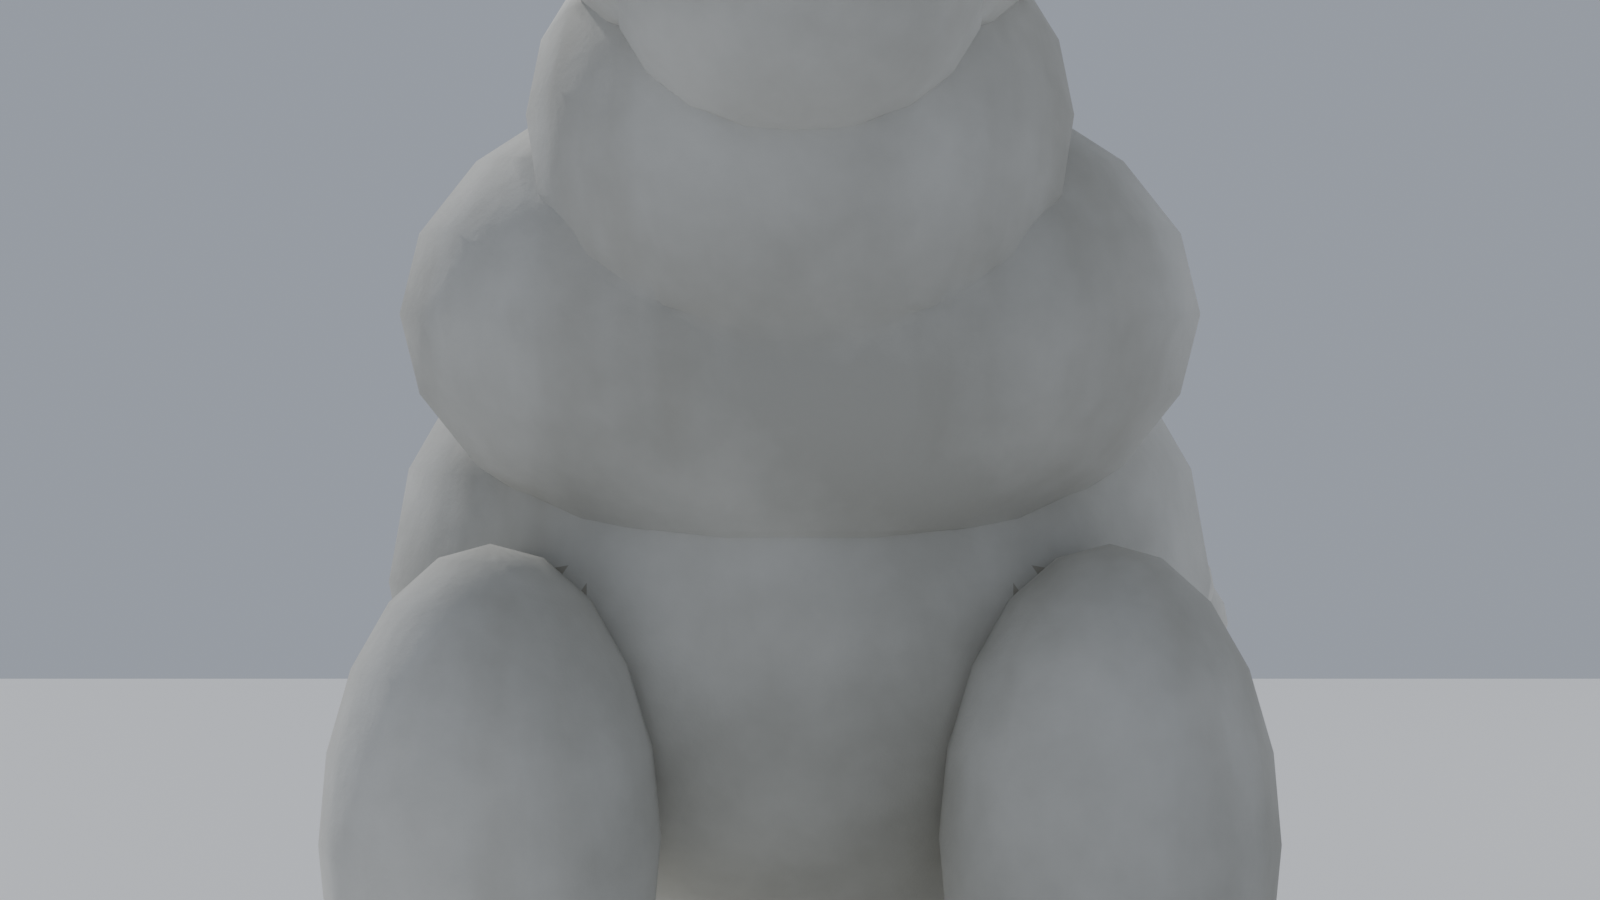
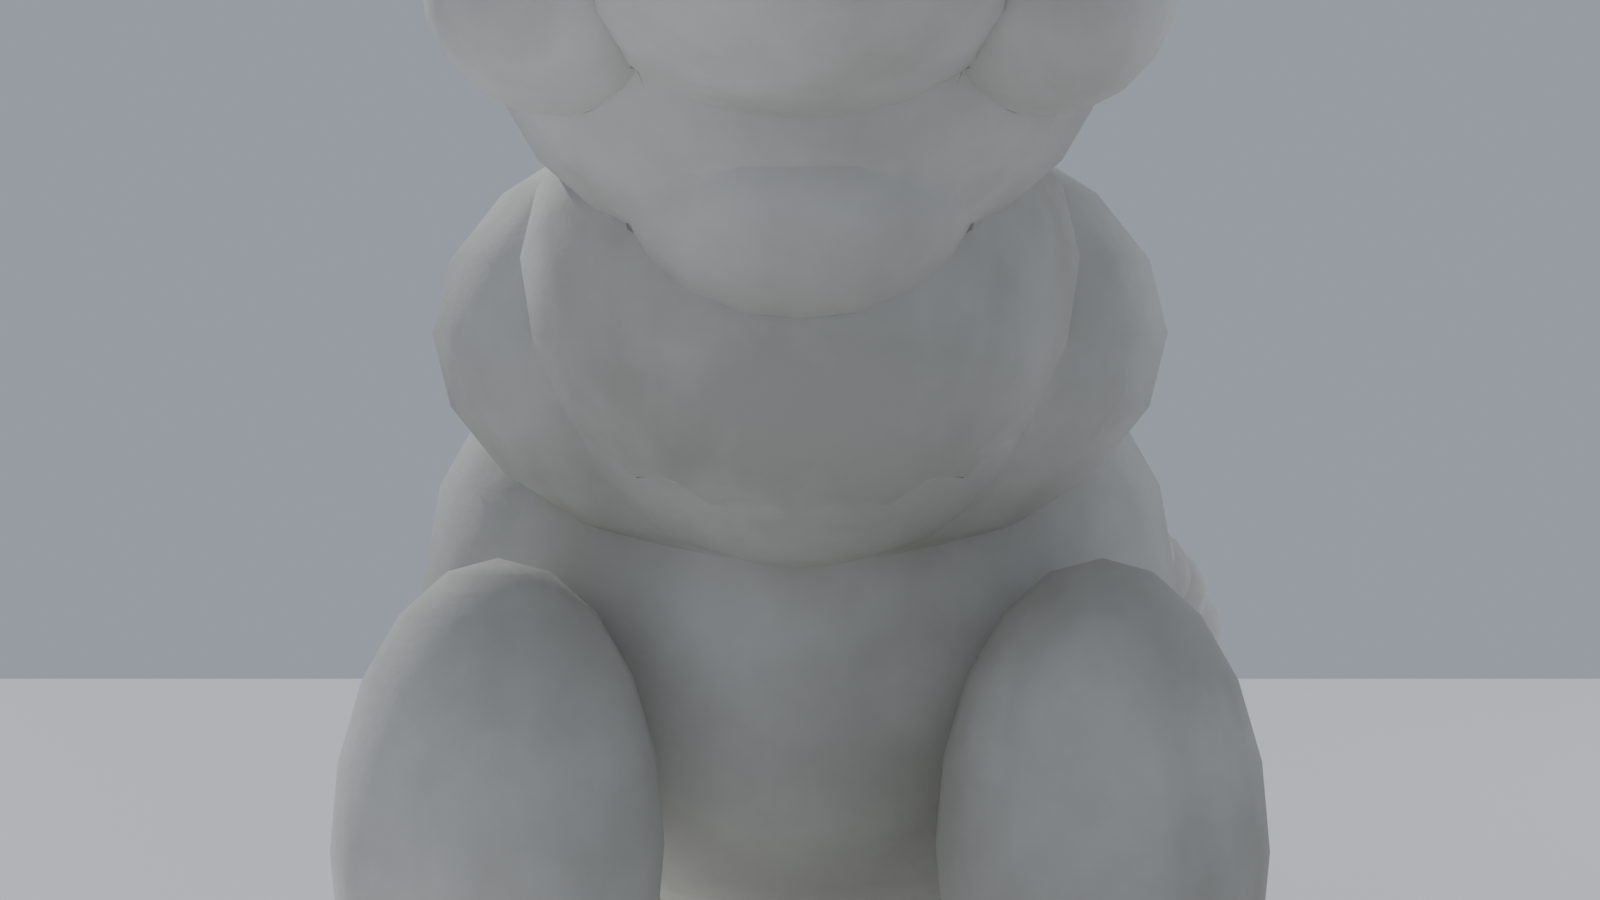
feat(e30): M15-P2 兽雕刻化(BeastSculpt8)——晶体齿换八棱四段母线火焰瓣(厚根0.80w/内凹腰/薄尖/自掠尖锋), 双峰乱序+间距不均+谷间矮瓣遮叠, 峰移肩后破'冠脊等高', 头降0.075前伸+胸近竖直; 两variant水密comps=1, 真树重渲目视与实拍剪影吻合

diff --git a/e30_shikongqiao_video/3d/beasts2.py b/e30_shikongqiao_video/3d/beasts2.py
@@ -1,12 +1,13 @@
 # -*- coding: utf-8 -*-
-"""桥头靠山兽 v7(beasts2): 前探蹲坐+火焰瓣脊镇桥兽, 真拍重雕批(2026-10-05)。
+"""桥头靠山兽 v8(beasts2): 前探蹲坐+雕刻化火焰瓣脊镇桥兽, 真拍重雕批(2026-10-05)。
 
 历史依据(实拍 17_Arch_Bridge_Statue_over_Kunming_Lake_(3627588283) 剪影实证,
-六审第五刀): 头前伸/吻近水平(额-鼻-嘴水平轮廓强), 颈斜向后上, 胸削瘦,
-前腿直撑, 躯干向后拉长(前探动势); 背脊=7 片火焰瓣——有尖/每层向后倒伏/
-前后层叠/瓣间凹口/大小递变/棱面硬轮廓(废 v6 圆椭球泡"葡萄脊");
-云缘两侧披鬃顺披; 尾卷贴体侧后腿旁; 长方石座保留。
-废 v4 高颈直立坐犬态 / v5 伏卧前探+单片巨卷 / v6 蹲坐昂首+圆泡云脊。
+六审第五刀 + 七审 P2): 头低位前伸/吻近水平/颈斜向后上/胸近竖直削瘦/前腿直撑/
+躯干后拉长(前探动势); 背脊=雕刻化火焰瓣——厚根薄尖/前后遮叠/整体后掠/
+大小不一/间距不均/峰在肩后至臀上且高过头顶(七审 P2 废"规则晶体齿"读感:
+v7 等距等掠六棱直瓣); 云缘两侧披鬃顺披; 尾卷贴体侧后腿旁; 长方石座保留。
+废 v4 高颈直立坐犬态 / v5 伏卧前探+单片巨卷 / v6 蹲坐昂首+圆泡云脊 /
+v7 规则晶体齿脊。
 
 交付形态: beast_bm(size, variant, seed) -> 单只水密 bmesh; place_beasts(spots) ->
 4 个 linked duplicate 共享 NVARIANTS 套 mesh。variant 0 张口 / 1 含珠微合。
@@ -108,52 +109,66 @@ def _frustum(c, s, tx=1.0, tz=1.0, rot_y=0.0, rot_x=0.0):
 
 
 def _blade(c, h, w, t, rot_y=-0.10):
-    """火焰瓣(独立 bmesh): 底环 + 内收腰环 + 后掠尖锋 + 前埋钝底。
+    """火焰瓣(独立 bmesh): 八棱根环 + 厚根段 + 内收腰 + 薄尖段 + 后掠尖锋 + 前埋钝底。
 
-    腰环(0.70h)收至 0.55w → 瓣宽厚保持到中上段、末 30% 收尖(宽瓣尖锋,
-    前后棱斜率递增=内凹火焰卷曲); 尖锋后掠 0.16h(合成顶点 ≈ 环心 +
-    (-0.259h, +0.979h)); 钝底下沉 0.18h 前埋 0.06h, 令环刃整条埋入
-    背脊体块(防切线退化/防瓣底悬丝)。
+    七审 P2 雕刻化(废"规则晶体齿"读感): 四段母线 0/0.40h/0.68h/0.85h,
+    根段保持 0.80w 到 0.40h(厚根) → 0.68h 收至 0.34w(内凹腰) → 0.85h 只剩
+    0.21w(薄尖) → 尖锋(合成顶点=环心+rot 后掠), 根粗尖细一气呵成; 前缘
+    xoffset 0/−0.06/−0.18/−0.25/−0.28h 递增后收(中段收速最快=凹弧焰舌卷,
+    非直边晶体); 八棱环前后棱增宽 1.18·|cos a|³(石棱正面折带, 侧面圆浑);
+    尖锋配 rot_y 后掠角(布片 -0.20→-0.52 递增=整体后掠);
+    钝底下沉 0.16h 前埋 0.06h, 令根环整条埋入背脊体块(防切线退化/防瓣底悬丝)。
     """
     cx, cy, cz = c
     R = Matrix.Rotation(rot_y, 3, 'Y')
     bm = bmesh.new()
-    ring, waist = [], []
-    for j in range(6):
-        a = math.pi * j / 3.0
-        ca, sa = math.cos(a), math.sin(a)
-        p = R @ Vector((w * ca, t * sa, 0.0))
-        ring.append(bm.verts.new((p.x + cx, p.y + cy, p.z + cz)))
-        q = R @ Vector((0.55 * w * ca - 0.112 * h, 0.62 * t * sa, 0.70 * h))
-        waist.append(bm.verts.new((q.x + cx, q.y + cy, q.z + cz)))
-    tp = R @ Vector((-0.16 * h, 0.0, h))
-    bt = R @ Vector((0.06 * h, 0.0, -0.18 * h))
+    NS = 8
+    prof = ((0.0, 0.0, 1.0, 1.0), (0.40, -0.06, 0.80, 0.88),
+            (0.68, -0.18, 0.34, 0.52), (0.85, -0.25, 0.21, 0.34))
+    rows = []
+    for (zh, xo, ws, ts) in prof:
+        row = []
+        for j in range(NS):
+            a = 2.0 * math.pi * j / NS
+            k = 1.0 + 0.18 * abs(math.cos(a)) ** 3
+            p = R @ Vector((w * ws * k * math.cos(a) + xo * h,
+                            t * ts * math.sin(a), zh * h))
+            row.append(bm.verts.new((p.x + cx, p.y + cy, p.z + cz)))
+        rows.append(row)
+    tp = R @ Vector((-0.28 * h, 0.0, h))
+    bt = R @ Vector((0.06 * h, 0.0, -0.16 * h))
     va = bm.verts.new((tp.x + cx, tp.y + cy, tp.z + cz))
     vb = bm.verts.new((bt.x + cx, bt.y + cy, bt.z + cz))
-    for j in range(6):
-        k = (j + 1) % 6
-        bm.faces.new((vb, ring[k], ring[j]))
-        bm.faces.new((ring[j], ring[k], waist[k], waist[j]))
-        bm.faces.new((waist[j], waist[k], va))
+    for i in range(len(rows) - 1):
+        for j in range(NS):
+            k = (j + 1) % NS
+            bm.faces.new((rows[i][j], rows[i][k], rows[i + 1][k], rows[i + 1][j]))
+    for j in range(NS):
+        k = (j + 1) % NS
+        bm.faces.new((rows[0][k], rows[0][j], vb))
+        bm.faces.new((rows[-1][j], rows[-1][k], va))
     return bm
 
 
 def _sculpt_parts(variant):
     """前探蹲坐式靠山兽部件(单位高 1.0, 朝 +X)。返回 (P, N, F)。
 
-    六审第五刀(2026-10-05, GPT 六审: 背脊整条重画+身体前探动势, 实拍
-    17_Arch_Bridge_Statue_over_Kunming_Lake_(3627588283) 剪影实证):
-    1. 背脊=7 片火焰瓣 _blade(六棱环+后掠尖锋+钝底埋背): 有尖/每层向后
-       倒伏/前后层叠/瓣间深凹口/大小递变(中背最高≈头顶)/棱面硬轮廓;
-       尖序 x 0.235→-0.58, 尖高 0.79→0.82(峰)→0.56。废 v6 圆椭球泡脊。
-    2. 身体前探: 头前送+0.065(吻端至 0.70), 吻轴近水平(rot_y -0.21≈+12°,
-       额-鼻-嘴水平轮廓强), 颈斜向后上(rot_y -0.35), 胸削瘦(rx 0.19→0.16)
-       且前移, 躯干后拉(臀球 -0.30→-0.335, 胯-肩跨距 +16%), 前腿更直立
-       (~4°), 整体降低(冠顶 0.953→0.857)。
+    七审 P2(2026-10-06, GPT 七审: 背脊从"规则晶体齿"改"雕刻化" + 头颈降低
+    前伸 + 胸口再削 + 火焰瓣更贴体; 实拍 3627588283 对照):
+    1. 背脊雕刻化五特征: 厚根薄尖(_blade 四段母线 0.80w@0.40h→0.26w@0.85h)、
+       整体后掠(每瓣 rot_y -0.20→-0.60 递增 + 尖锋自掠 0.20h)、前后遮叠
+       (主 7 瓣根宽互叠 + 谷间 3 矮瓣中景层)、大小不一(0.19-0.63 双峰乱序)、
+       间距不均(0.08-0.16 乱序); 峰移肩后至臀上(真物位), 峰高 0.919>冠顶
+       0.782; 八棱根环前后棱 1.18 增宽(石棱折带非晶体棱)。
+    2. 头颈降低前伸: 头组 -z0.075/+x0.01(冠顶 0.782, 吻端 0.74), 颈 rot_y
+       -0.35→-0.50(斜向后上加强, 头不再昂), 吻轴保持 -0.21 近水平。
+    3. 胸口再削: 挺胸 rx 0.16→0.135 前移 0.165(前缘 x0.03 近竖直), 肩丘
+       0.115→0.108; 前腿不动(直撑)。
     体块=椭球/盒(rot_y 定向: 负角 +X 端上仰/顶部向后倒伏, 正角相反);
     火焰瓣/披鬃/云/尾=C 壳先并再总并(瓣环刃/鬃锚/尾根均深埋体块保连通);
-    五官=负刀 crease+后并凸件。剪影验收: 背脊锯齿锐形(尖+凹口, 无球轮廓)/
-    头前伸吻水平/胸瘦腿直/瓣尖≤头顶 1.2×/尾贴腿侧。
+    五官=负刀 crease+后并凸件。剪影验收: 背脊雕刻层叠(厚根薄尖+后掠+双峰+
+    谷间矮瓣, 非等距齿列)/头低位前伸吻水平/胸瘦腿直/焰峰高过头顶/尾贴腿侧。
+    (六审第五刀: 首次火焰瓣化+前探动势, 见 §六报告; v6 圆泡脊已废。)
     """
     P, N, F = [], [], []
     C = []
@@ -186,12 +201,13 @@ def _sculpt_parts(variant):
     # 1. 长方石座(保留 v5)
     box((-0.09, 0, 0.042), (1.55, 0.58, 0.095))
 
-    # 2. 前探躯干: 臀球后拉落座 + 腰腹拉长 + 胸削瘦前移 + 肩丘(头前伸支点)
+    # 2. 前探躯干: 臀球后拉落座 + 腰腹拉长 + 胸再削瘦前移 + 肩丘(头前伸支点)
     ell((-0.335, 0, 0.255), (0.20, 0.205, 0.185))   # 臀球(沉入座面, 顶 0.44)
     ell((-0.07, 0, 0.32), (0.22, 0.20, 0.13))       # 腰腹(腹线 0.19 上收)
-    ell((0.175, 0, 0.375), (0.16, 0.195, 0.17))     # 挺胸(削瘦: 底0.205顶0.545)
-    ell((0.27, 0, 0.50), (0.115, 0.18, 0.115))      # 肩丘(颈基)
-    ell((0.30, 0, 0.55), (0.10, 0.115, 0.10), rot_y=-0.35)  # 咽喉填充(颏-胸桥)
+    ell((0.165, 0, 0.375), (0.135, 0.185, 0.165))   # 挺胸(七审再削: 底0.21顶0.54,
+                                                    #  前缘 x0.03 近竖直)
+    ell((0.265, 0, 0.50), (0.108, 0.17, 0.108))     # 肩丘(颈基)
+    ell((0.31, 0, 0.495), (0.10, 0.115, 0.10), rot_y=-0.45)  # 咽喉填充(颏-胸桥)
     # 2b. 后肢折叠: 大腿 + 飞节 + 前伸后爪 + 三趾(贴体侧, 随臀后拉 -0.03)
     for sy in (1, -1):
         ell((-0.31, sy * 0.15, 0.19), (0.13, 0.085, 0.115))
@@ -210,42 +226,56 @@ def _sculpt_parts(variant):
             ell((0.435, sy * 0.145 + ty, 0.098), (0.034, 0.018, 0.025),
                 _SEG_S, _RING_S)
 
-    # 4. 头前伸: 颈斜向后上(-0.35), 吻轴近水平(-0.21≈+12°), 吻加长前送;
-    #    额-鼻-嘴一线 z 0.775→0.815 水平轮廓强; 颏须垂桥接胸
-    ell((0.315, 0, 0.58), (0.10, 0.12, 0.115), rot_y=-0.35)        # 颈
-    ell((0.365, hy, 0.72), (0.13, 0.14, 0.12))                     # 颅
-    ell((0.352, hy, 0.812), (0.108, 0.14, 0.045), rot_y=-0.15,
+    # 4. 头前伸且降(七审 P2: 整组 -z0.075/+x0.01, 冠顶 0.782→归一≈0.85 总高,
+    #    真拍头低于背脊焰峰; 颈斜向后上加强 -0.50, 吻轴保持近水平 -0.21);
+    #    颏须垂桥接胸
+    ell((0.325, 0, 0.525), (0.105, 0.125, 0.115), rot_y=-0.50)     # 颈
+    ell((0.375, hy, 0.645), (0.13, 0.14, 0.12))                    # 颅
+    ell((0.362, hy, 0.737), (0.108, 0.14, 0.045), rot_y=-0.15,
         carve=True)                                                # 冠盖
-    ell((0.44, hy, 0.775), (0.095, 0.12, 0.038), rot_y=-0.19)      # 额檐(眉上收)
-    ell((0.52, hy, 0.79), (0.105, 0.10, 0.06), rot_y=-0.21)        # 鼻梁
-    ell((0.615, hy, 0.80), (0.06, 0.085, 0.048), rot_y=-0.21)      # 吻端
-    ell((0.668, hy, 0.815), (0.032, 0.058, 0.028), rot_y=-0.21)    # 鼻镜
+    ell((0.45, hy, 0.70), (0.095, 0.12, 0.038), rot_y=-0.19)       # 额檐(眉上收)
+    ell((0.53, hy, 0.715), (0.105, 0.10, 0.06), rot_y=-0.21)       # 鼻梁
+    ell((0.625, hy, 0.725), (0.06, 0.085, 0.048), rot_y=-0.21)     # 吻端
+    ell((0.678, hy, 0.74), (0.032, 0.058, 0.028), rot_y=-0.21)     # 鼻镜
     for sy in (1, -1):
-        ell((0.66, hy + sy * 0.05, 0.805), (0.026, 0.026, 0.022),
+        ell((0.67, hy + sy * 0.05, 0.73), (0.026, 0.026, 0.022),
             _SEG_S, _RING_S)                                       # 鼻翼
-        ell((0.445, hy + sy * 0.10, 0.72), (0.07, 0.055, 0.055))   # 颊垫
-    ell((0.49, hy, 0.715), (0.10, 0.085, 0.05), rot_y=-0.21)       # 下颌(加深, 存活于口裂下缘)
-    ell((0.39, hy, 0.645), (0.075, 0.08, 0.075), rot_y=-0.45,
+        ell((0.455, hy + sy * 0.10, 0.645), (0.07, 0.055, 0.055))  # 颊垫
+    ell((0.50, hy, 0.64), (0.10, 0.085, 0.05), rot_y=-0.21)        # 下颌(加深, 存活于口裂下缘)
+    ell((0.40, hy, 0.575), (0.075, 0.08, 0.075), rot_y=-0.45,
         carve=True)                                                # 颏须
     for sy in (1, -1):
-        ell((0.285, hy + sy * 0.10, 0.79), (0.035, 0.026, 0.042),
+        ell((0.295, hy + sy * 0.10, 0.715), (0.035, 0.026, 0.042),
             _SEG_S, _RING_S, rot_x=sy * -0.4, rot_y=-0.35)         # 贴颅伏耳
-        ell((0.445, hy + sy * 0.09, 0.79), (0.05, 0.04, 0.022),
+        ell((0.455, hy + sy * 0.09, 0.715), (0.05, 0.04, 0.022),
             _SEG_S, _RING_S, rot_x=sy * 0.2, rot_y=-0.21)          # 眉脊
 
-    # 5. 背脊火焰瓣 x7(六审第五刀: 有尖/向后倒伏/前后层叠/瓣间凹口/大小
-    #    递变/棱面硬轮廓; rot_y -0.30+尖锋后掠 0.22h → 尖=环心+(-0.506h,
-    #    +0.890h), 环刃深埋背线 0.03-0.09, 相邻瓣下半大重叠成瓦叠实心脊,
-    #    凹口只落瓣高中部不落底)。废 v6 圆椭球泡脊。
-    for (bx, bz, bh, bw, bt) in (
-            (0.27, 0.60, 0.20, 0.060, 0.075),    # 项后鬃锋(从头颈后穿出, 尖0.80)
-            (0.185, 0.46, 0.326, 0.115, 0.09),   # 尖0.78
-            (0.05, 0.39, 0.449, 0.17, 0.11),     # 尖0.83
-            (-0.085, 0.40, 0.466, 0.175, 0.115), # 中背峰 尖0.856≈头顶
-            (-0.24, 0.39, 0.416, 0.15, 0.105),   # 尖0.80
-            (-0.38, 0.385, 0.314, 0.105, 0.085), # 尖0.69(下沉保环刃埋臀)
-            (-0.50, 0.33, 0.247, 0.09, 0.075)):  # 尖0.57(臀上收)
-        blade((bx, 0, bz), bh, bw, bt)
+    # 5. 背脊火焰瓣(七审 P2 雕刻化: 废"规则晶体齿"):
+    #    ①厚根薄尖——_blade 四段母线(根 0.80w 保持到 0.40h, 0.85h 只剩 0.21w),
+    #      主峰根宽 0.19(v6 0.175); ②整体后掠——每瓣独立后掠角 -0.20→-0.52
+    #      向后递增, 尖锋自身后掠 0.28h; ③峰移真物位(肩后至臀上), 峰高 0.874
+    #      明确高过冠顶 0.782(归一后冠≈0.89 总高, 对齐实拍焰峰>头);
+    #    ④大小不一/间距不均——间距 0.08-0.16 乱序, 高度双峰(0.874/0.792)非
+    #      单包络; ⑤前后遮叠——主 7 瓣根宽加大互叠成瓦叠实心脊, 另布 3 片
+    #      矮瓣嵌谷(前后层中景, 侧视读雕刻层叠非等距齿列); 根环全部深埋
+    #      背线 ≥0.03(钝底下沉 0.16h 加固)。
+    #    (r2: 主峰去帆化 h0.63→0.60/w0.22→0.19 且后移 -0.185, 次峰抬 0.55,
+    #     2 号瓣降 0.26 令前段三瓣各自成叶, 6/7 后掠收 -0.50/-0.52 防倒伏。)
+    for (bx, bz, bh, bw, bt_, brot) in (
+            (0.24, 0.575, 0.19, 0.055, 0.068, -0.20),   # 项后鬃锋(尖0.751)
+            (0.14, 0.45, 0.26, 0.10, 0.082, -0.30),     # 尖0.677(降, 前谷加深)
+            (0.0, 0.39, 0.44, 0.16, 0.10, -0.36),       # 尖0.758(低于冠0.782)
+            (-0.185, 0.395, 0.60, 0.19, 0.115, -0.42),  # 主峰(肩后) 尖0.874
+            (-0.315, 0.375, 0.55, 0.15, 0.10, -0.48),   # 次峰(臀上) 尖0.792
+            (-0.43, 0.345, 0.30, 0.10, 0.078, -0.50),   # 尖0.568
+            (-0.52, 0.31, 0.22, 0.075, 0.065, -0.52)):  # 尖0.470(臀后收)
+        blade((bx, 0, bz), bh, bw, bt_, rot_y=brot)
+    # 5a. 谷间矮瓣 x3(前后遮叠中景层; 根环埋背线/臀球/垂云 ≥0.05)
+    for (bx, bz, bh, bw, bt_, brot) in (
+            (0.085, 0.36, 0.19, 0.075, 0.058, -0.28),   # 2/3 谷(尖0.528)
+            (-0.245, 0.35, 0.19, 0.08, 0.06, -0.45),    # 4/5 谷
+            (-0.475, 0.315, 0.15, 0.065, 0.052, -0.58)):  # 6/7 谷
+        blade((bx, 0, bz), bh, bw, bt_, rot_y=brot)
     ell((-0.545, 0, 0.32), (0.09, 0.13, 0.085), rot_y=0.8, carve=True)  # 臀后垂云
     ell((-0.575, 0, 0.185), (0.085, 0.12, 0.10))                    # 垂云落地
     # 5b. 瓣缘两侧披鬃三对(向后顺披, 锚端嵌入瓣体+体侧双锚) + 头后卷勾
@@ -256,7 +286,7 @@ def _sculpt_parts(variant):
             _SEG_S, _RING_S, rot_x=sy * 0.3, rot_y=-0.9, carve=True)
         ell((-0.34, sy * 0.095, 0.41), (0.06, 0.048, 0.09),
             _SEG_S, _RING_S, rot_x=sy * 0.3, rot_y=-0.9, carve=True)
-        ell((0.297, hy + sy * 0.10, 0.79), (0.04, 0.026, 0.05),
+        ell((0.307, hy + sy * 0.10, 0.715), (0.04, 0.026, 0.05),
             _SEG_S, _RING_S, rot_y=-1.1, carve=True)               # 头后云卷勾
 
     # 6. 尾: 贴体侧后腿旁 S 卷, 梢上勾(variant 换侧); 首节锚入臀球,
@@ -280,31 +310,31 @@ def _sculpt_parts(variant):
 
     # 8. 减法(负刀半凸穿出表面): 口裂楔刀(沿吻轴 -0.21) / 眼窝上割 / 鼻孔
     if variant == 0:
-        neg(_frustum((0.585, hy, 0.758), (0.24, 0.052, 0.034),
+        neg(_frustum((0.597, hy, 0.683), (0.24, 0.052, 0.034),
                      tx=1.25, rot_y=-0.21))
     else:
-        neg(_frustum((0.585, hy, 0.760), (0.24, 0.052, 0.024),
+        neg(_frustum((0.597, hy, 0.685), (0.24, 0.052, 0.024),
                      tx=1.25, rot_y=-0.21))
     for sy in (1, -1):
-        neg(_ell((0.475, hy + sy * 0.088, 0.795), (0.038, 0.016, 0.018),
+        neg(_ell((0.487, hy + sy * 0.088, 0.72), (0.038, 0.016, 0.018),
                  _SEG_S, _RING_S))
-        neg(_ell((0.682, hy + sy * 0.024, 0.836), (0.012, 0.012, 0.010),
+        neg(_ell((0.692, hy + sy * 0.024, 0.761), (0.012, 0.012, 0.010),
                  _SEG_S, _RING_S))
 
     # 8b. 后置凸件(负刀后并回): 凸眼珠 / 上唇獠牙(张口) 或 含珠(微合)
     for sy in (1, -1):
-        # 眼珠中心须在眼窝负刀(0.475,±0.088,0.795)下外方, 埋入额檐实体,
+        # 眼珠中心须在眼窝负刀(0.487,±0.088,0.72)下外方, 埋入额檐实体,
         # 仅顶面探入窝内(否则整体悬在窝腔中成孤岛, 六审布尔诊断)
-        fin(_ell((0.47, hy + sy * 0.096, 0.776), (0.026, 0.028, 0.026),
+        fin(_ell((0.48, hy + sy * 0.096, 0.701), (0.026, 0.028, 0.026),
                  _SEG_S, _RING_S))
     if variant == 0:
         for sy in (1, -1):
-            # 獠牙顶端须越过口裂楔刀上缘(x=0.585 处≈0.801)嵌入上颌实体
-            fin(_ell((0.585, hy + sy * 0.040, 0.774), (0.015, 0.018, 0.048),
+            # 獠牙顶端须越过口裂楔刀上缘(x=0.597 处≈0.726)嵌入上颌实体
+            fin(_ell((0.597, hy + sy * 0.040, 0.699), (0.015, 0.018, 0.048),
                      _SEG_S, _RING_S, rot_y=-0.21))
     else:
         # 含珠顶端同样越过楔刀上缘嵌入上颌(否则负刀后悬空断连)
-        fin(_ell((0.59, hy, 0.776), (0.036, 0.036, 0.036), _SEG_S, _RING_S))
+        fin(_ell((0.602, hy, 0.701), (0.036, 0.036, 0.036), _SEG_S, _RING_S))
 
     # 9. 雕饰簇(鬃/云/尾)先并成单一壳, 再与体块一次并(避免切线布尔退化壳)
     if C:

diff --git a/e30_shikongqiao_video/3d/beast_pose_report.md b/e30_shikongqiao_video/3d/beast_pose_report.md
@@ -170,3 +170,66 @@ lion_closeup_threeq.png 重渲 + _lion_chest_zoom.png 放大目视: 无浮件、
 2. 眼窝负刀+眼珠嵌入为新位, 特写机位(frontclose 2.6m)眼形待主控验收。
 3. 脊峰若需后移至真物位(肩后), 需主控解除 v6 "背中部最高"约束后再调。
 4. build_scene2 正式树 SAVED 由主控合并各副本后统一重建确认(本副本已过)。
+
+## 七、七审 P2 刀（2026-10-06 主控派单: 背脊"规则晶体齿"→"雕刻化" + 头颈降低前伸 + 胸口再削 + 火焰瓣更贴体）
+
+依据: GPT 七审 P2 + 实拍
+refs/community_photos_details/17_Arch_Bridge_Statue_over_Kunming_Lake_(3627588283).jpg
+对照 v7 `_beast_preview_threeq.png`（头仍偏昂/胸前凸/脊=等距晶体齿）。
+工作区: /tmp/e30_fix_beast8（隔离协议; 写回互斥文件集 beasts2.py + 本报告 +
+_beast_preview_*.png; 未 commit）。
+
+### 结构改动（_blade 基元重写 + _sculpt_parts 参数, 管线/断言/接口不动）
+1. **背脊雕刻化五特征**（废 v7"规则晶体齿"读感）:
+   - **厚根薄尖**: `_blade` 从"六棱环+单腰环"重写为八棱四段母线（0/0.40h/
+     0.68h/0.85h）: 根段保持 0.80w 到 0.40h（厚根）→ 0.68h 收至 0.34w（内凹
+     腰）→ 0.85h 只剩 0.21w（薄尖）→ 尖锋; 八棱环前后棱 1.18·|cos a|³ 增宽
+     （正面石棱折带、侧面圆浑，非晶体均匀棱）。
+   - **整体后掠**: 每瓣独立后掠角 -0.20→-0.52 向后递增 + 尖锋自掠 0.28h;
+     前缘 xoffset 0/-0.06/-0.18/-0.25/-0.28h 递增（中段收速最快=凹弧焰舌卷）。
+   - **前后遮叠**: 主 7 瓣根宽加大互叠成瓦叠实心脊; 另布谷间矮瓣 x3
+     （x 0.085/-0.245/-0.475, h 0.15-0.19）嵌主瓣间作前后层中景。
+   - **大小不一/间距不均**: 主瓣高 0.19/0.26/0.44/0.60/0.55/0.30/0.22 双峰
+     乱序（峰-次峰-谷），间距 0.10-0.185 乱序。
+   - **峰移真物位**: 主峰自中背后移至肩后（x -0.185, 尖 0.874），次峰臀上
+     （x -0.315, 尖 0.792）——归一后焰峰=1.0 总高、冠顶 0.889、鼻端 0.890
+     （实拍焰峰明显高于头顶, v7 冠=脊峰等高已破）。
+2. **头颈降低前伸**: 头组整组 -z0.075/+x0.01（冠盖 0.812→0.737、鼻镜
+   0.815→0.740、吻端前伸 0.615→0.625），颈 rot_y -0.35→-0.50（斜向后上
+   加强, 头不再昂）, 吻轴保持 -0.21 近水平; 眼窝/眼珠/口裂楔刀/獠牙/含珠/
+   鼻孔/耳/眉/颊/颏须全组随动（相对几何不变, 楔刀-獠牙嵌接裕度 0.021 与
+   v7 相同）。
+3. **胸口再削**: 挺胸 rx 0.16→0.135、前移 0.175→0.165（前缘 x0.03 近竖直）,
+   肩丘 0.115→0.108; 前腿/后肢/尾不动。
+4. **更贴体**: 主峰根环埋背线 0.037-0.07、谷间矮瓣埋 0.05-0.09, 后掠使瓣尖
+   回落压在臀线/背线上方（贴体不悬浮）。
+
+### 验证闭环（全部在副本工作区执行）
+- `blender -b --python beasts2.py`: 两 variant comps=1 水密断言过, boundary
+  edges 0→0（r1/r2/r3 三轮重建均过）; bbox 长/宽/高 = 2.24/0.83/1.12。
+- 拓扑诊断（临时脚本已删）: bad_edges=0, zero_area=0, 有向边一致=0 —
+  r1 渲染主峰前缘 12px 暗斑（min 灰阶 3, 周边均值 138.5）非网格缺陷, 定性为
+  旧瓣位 3/4 尖-主峰前缘深 V 自阴影; r2 改布瓣后暗斑消失（r2/r3 面板区
+  近黑(<40)像素=0）。
+- 渲染迭代 3 轮（≤4 内）: ①首版主峰 0.63/根宽 0.22 读"单片鲨鳍帆"+前段三瓣
+  粘成团 → ②主峰去帆化（h0.60/w0.19 后移 -0.185）+次峰抬 0.55+2 号瓣降
+  0.26（前段各自成叶）→ ③腰环 0.40w→0.34w/末段 0.26w→0.21w 收薄尖+前缘
+  凹弧加强。终版 3/4: 焰脊=厚根多尖后掠叶簇（大小/间距/俯仰不一）, 头低
+  位前伸, 胸瘦, 正面对称, 无暗斑无黑洞。
+- build_scene2.py（副本）: SAVED v2, place_beasts 原签名消费无异常
+  （variant 1 含珠经水密断言+集成, 未单独出图, 同 §六口径）。
+- Python 3.9.6 py_compile 过; 归一剪影量化: 峰 x=-0.55（肩后）, 冠/峰=0.889。
+
+### 剪影自评与真拍差距
+- 已对齐: 晶体齿→雕刻叶簇（厚根薄尖/后掠/遮叠/乱序四征齐）; 头低于焰峰且
+  前伸（实拍头/焰峰比例 0.83 vs 本版 0.889, 方向与幅度到位）; 胸前缘竖直。
+- 差距: ①实拍焰峰/头比更高（1.21 vs 1.12）, 主控若需再拉主峰可调 blade4
+  h 0.60→0.66; ②披鬃圆团近距仍读"泡泡"（§六遗留, 非本轮范围）; ③实拍大叶
+  尖端卷曲更甚（本版凹弧直化近似）。
+
+### 遗留风险
+1. variant 1（含珠）口部随头组下移, 仅过水密+集成未单独渲染目检（同 §六）。
+2. 谷间矮瓣加使 C 壳件数 30→33, 布尔链变长; 三轮重建 comps=1 稳定, 但后续
+   再改瓣表需重跑水密断言。
+3. 头组 -0.075 后, 颏须-胸桥（0.40,0.575）与咽喉/挺胸嵌接裕度减小, 特写机位
+   颏部形态建议主控 next 验收。
